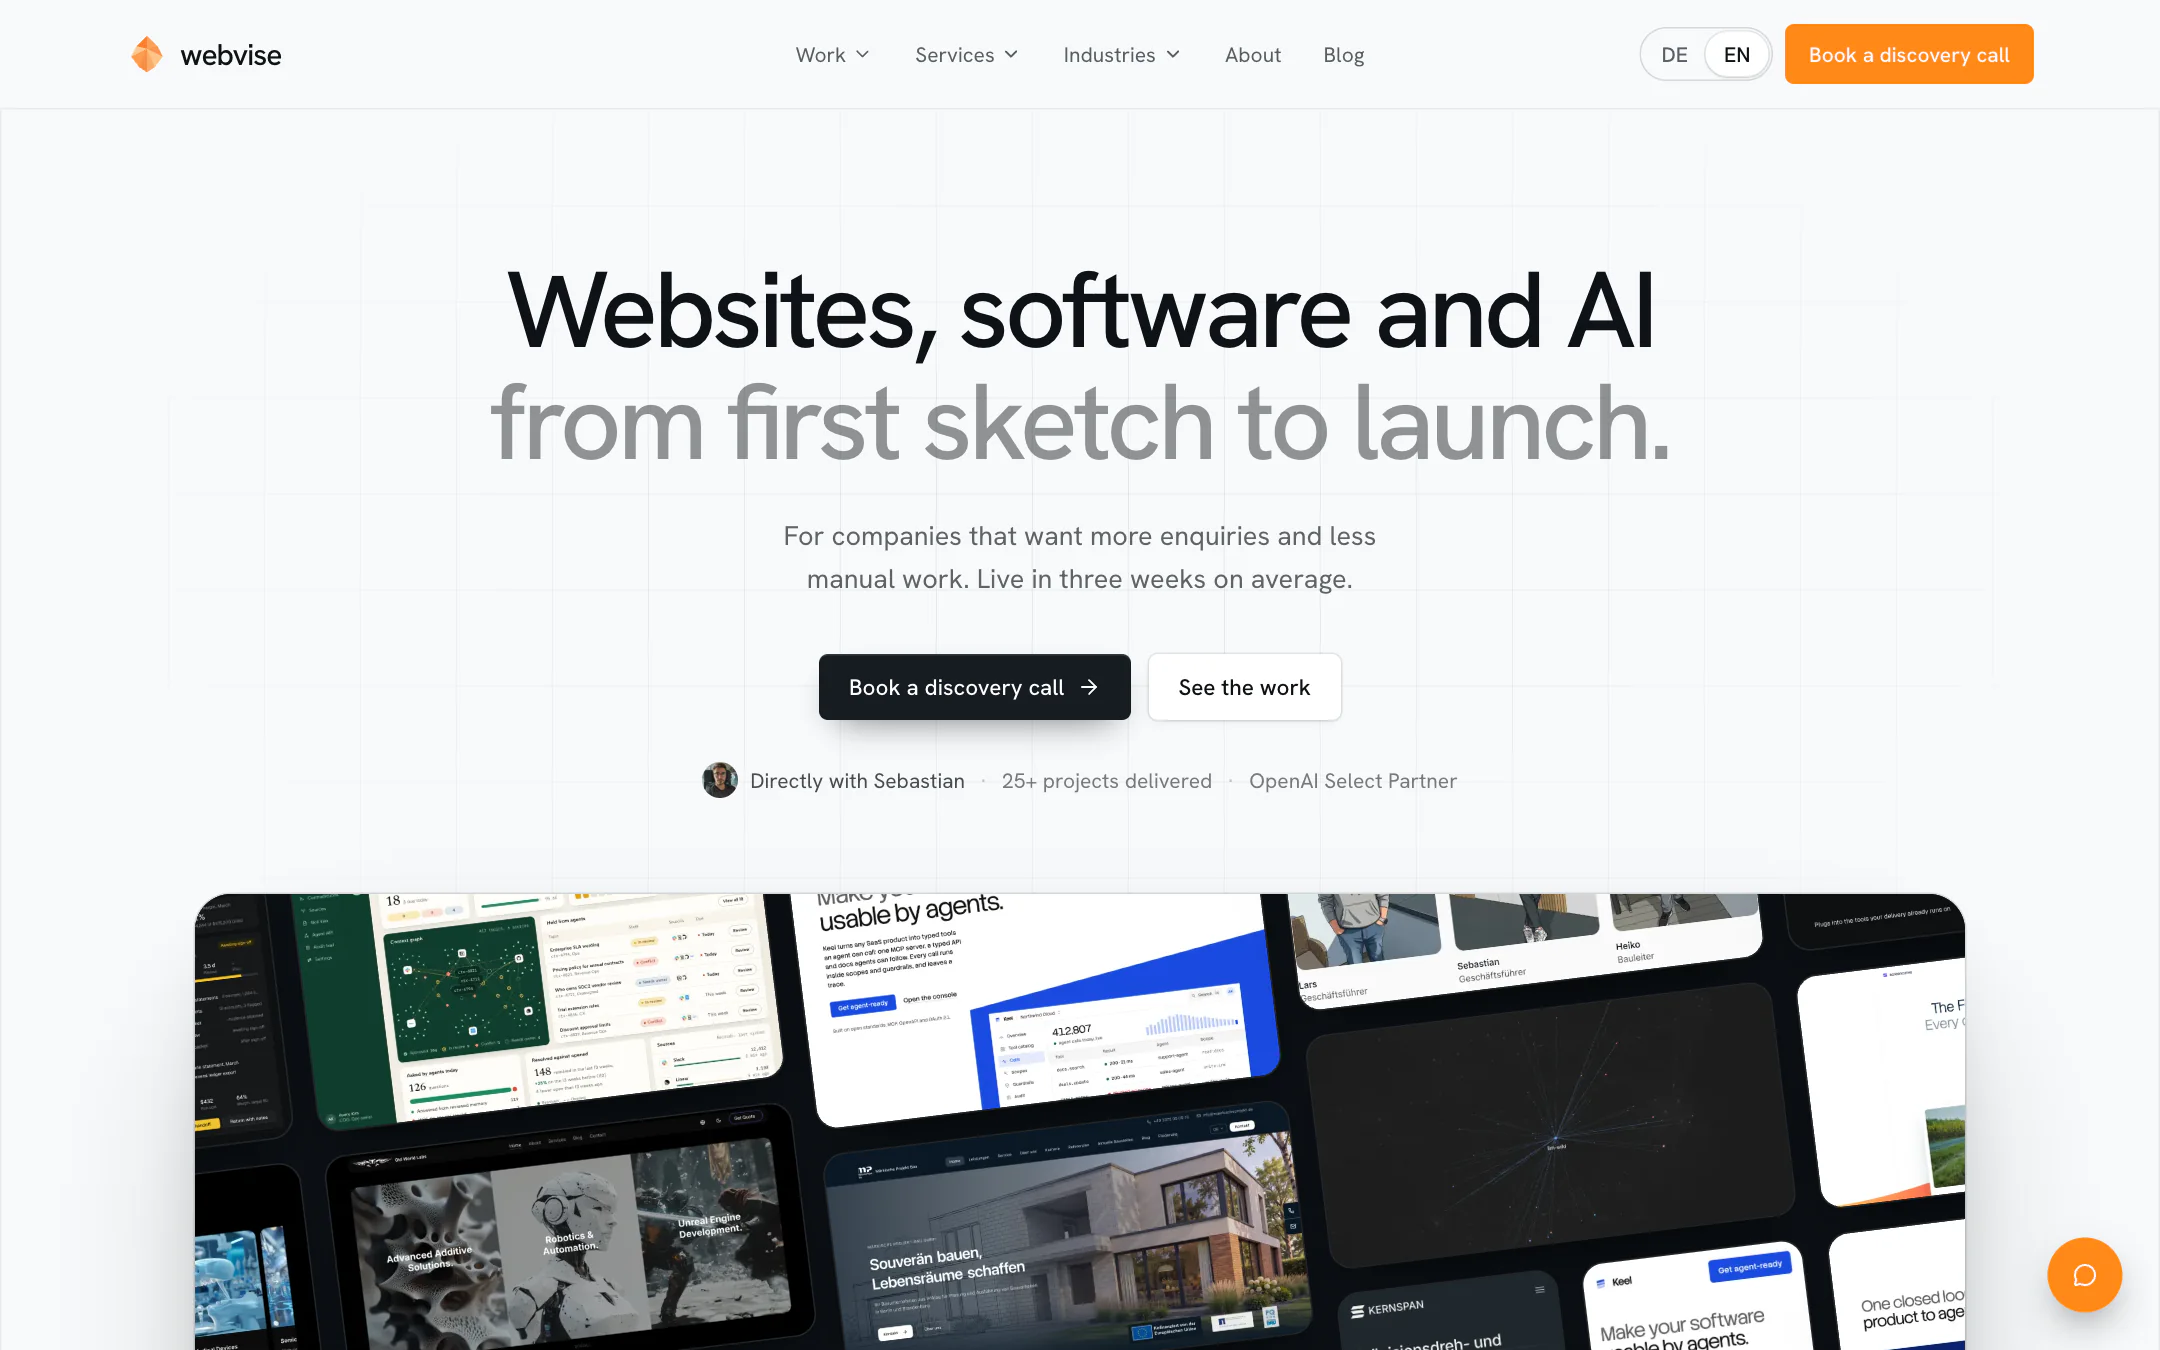
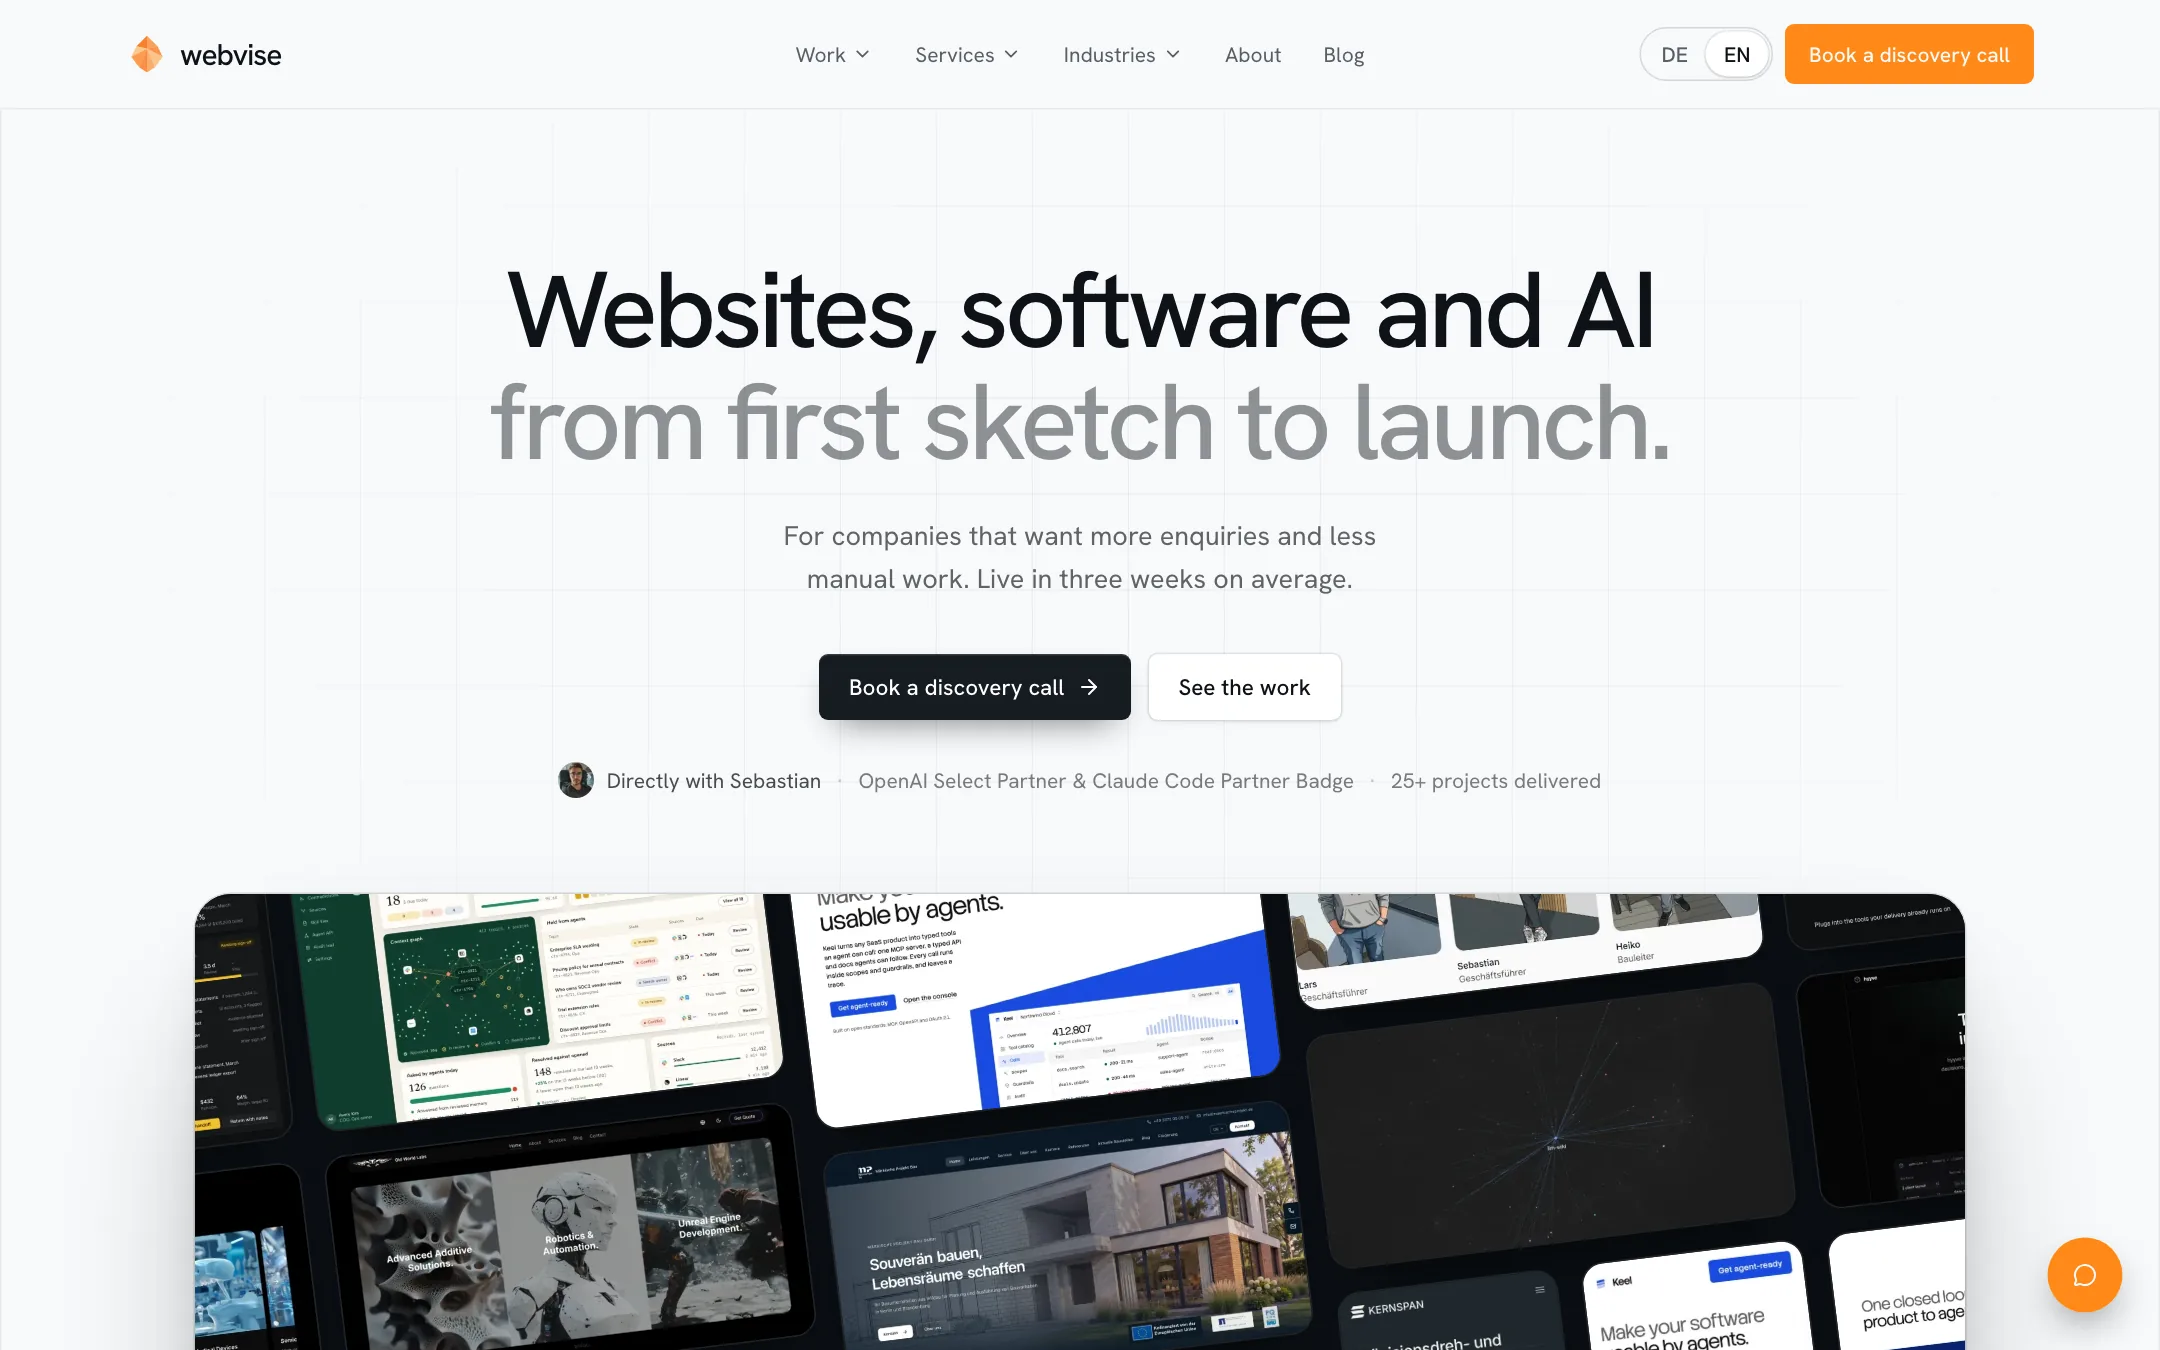
The webvise case study shows the site as it is now
The hero capture shows the new credential line with the Claude Code
Partner Badge. The services and engineer-led captures still showed the
site before the November redesign, with the old menu and the "Let's
talk" button; both are captured again from the home page. The full
page is new too, with lowercase hyyve and without the floating chat
button. The projects page capture was already current.

All five pictures move to the cache tag 20261117-badge, so browsers and
the image optimiser fetch the new files.

Changed region(s): [[0.8065, 0.7156, 0.9306, 0.9022], [0.2481, 0.56, 0.7444, 0.5911], [0.8375, 0.0311, 0.8995, 0.0622]]

diff --git a/apps/web/src/components/marketing/case-study-lightbox.tsx b/apps/web/src/components/marketing/case-study-lightbox.tsx
@@ -49,7 +49,7 @@ const imageDimensions: Record<string, { height: number; width: number }> = {
 		width: 1440,
 	},
 	"/images/case-studies/webvise/fullpage-v2.webp": {
-		height: 15_484,
+		height: 15_448,
 		width: 1440,
 	},
 	// Screencurve's app views, 1800 × 914 CSS at 2880 px wide, both locales

diff --git a/apps/web/next.config.ts b/apps/web/next.config.ts
@@ -59,7 +59,7 @@ const nextConfig: NextConfig = {
 			},
 			{
 				pathname: "/images/case-studies/webvise/**",
-				search: "?v=20261116-light",
+				search: "?v=20261117-badge",
 			},
 		],
 		qualities: [75, 80, 85, 90, 95, 100],
